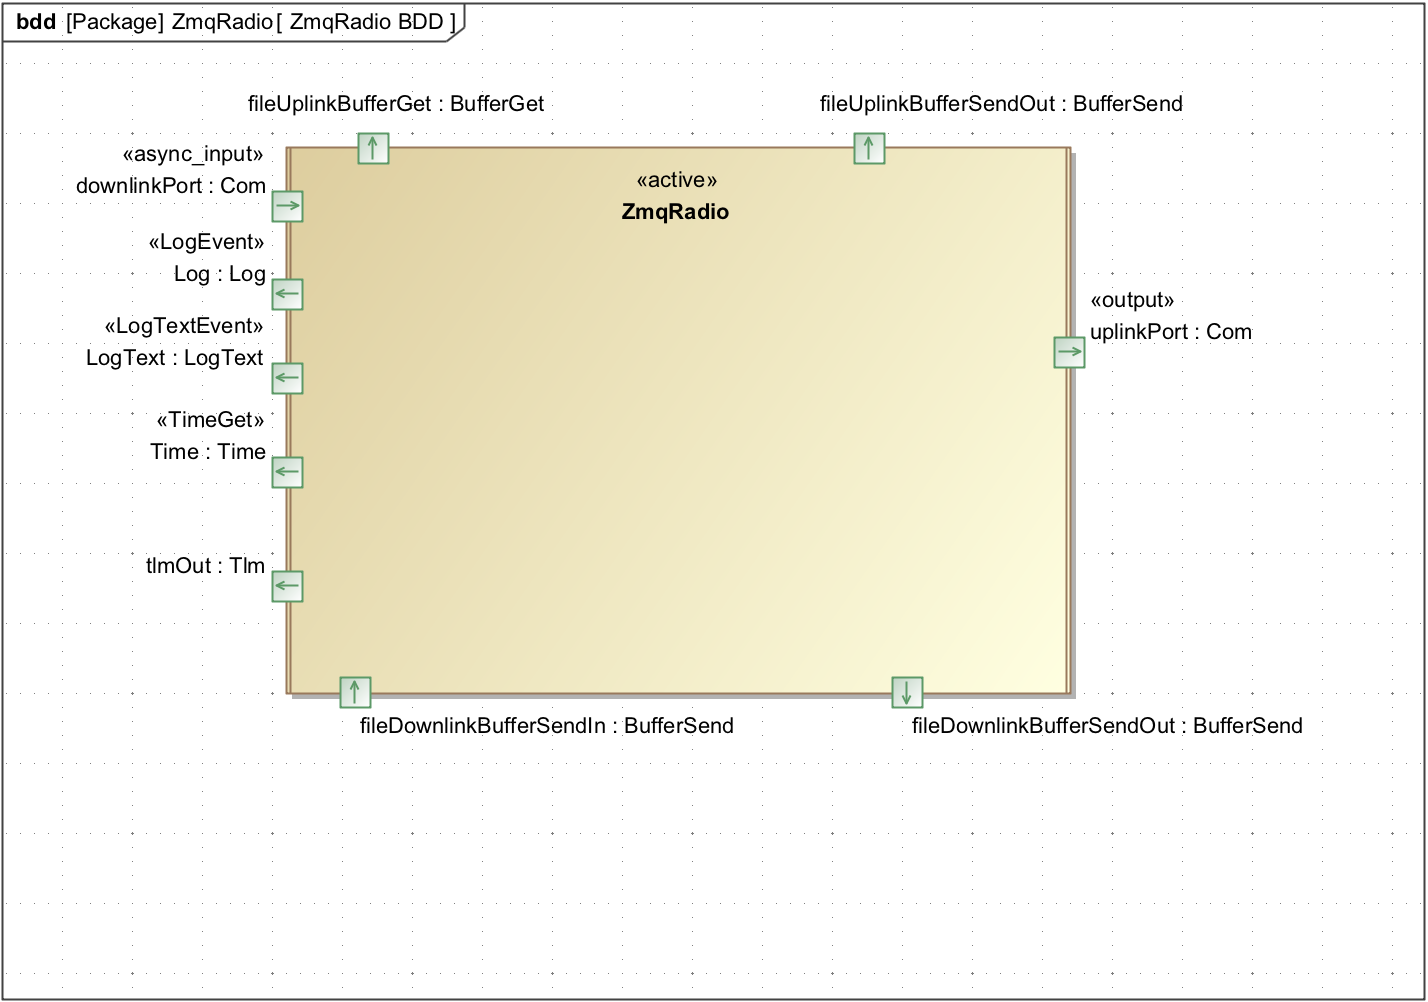
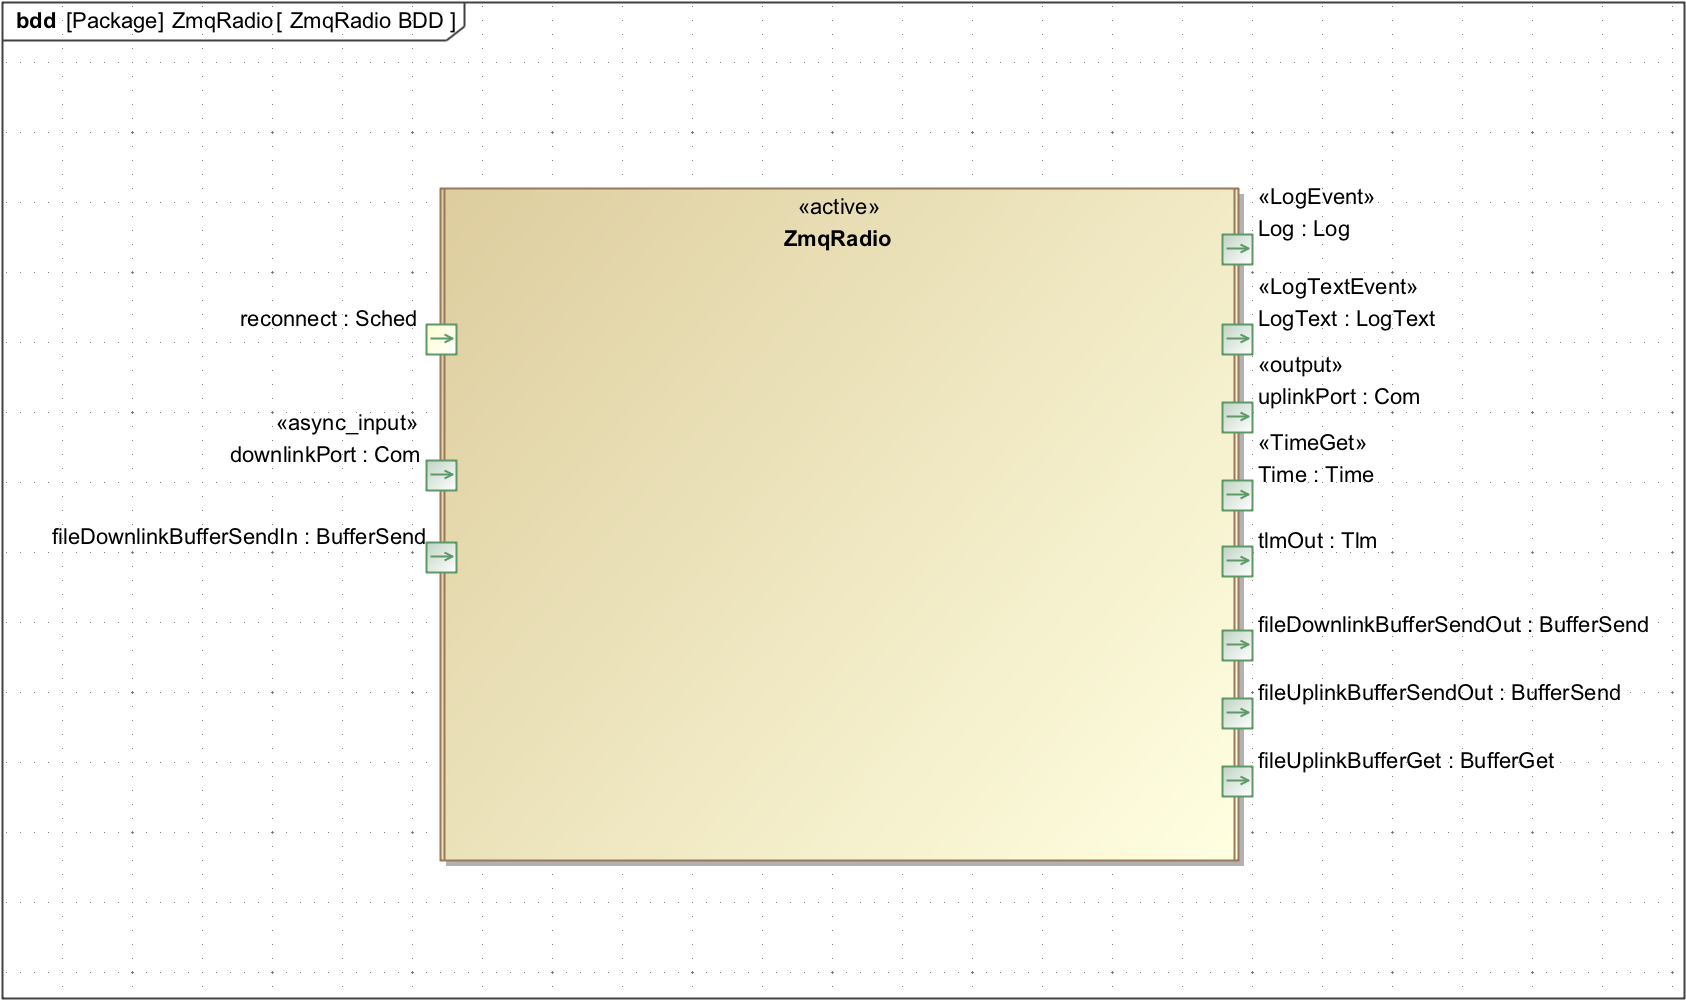
Added docs

Changed region(s): [[0.0, 0.0, 1.0, 1.0]]

diff --git a/zmq-ref/scripts/run_ref.py b/zmq-ref/scripts/run_ref.py
@@ -1,0 +1,112 @@
+#!/usr/bin/python
+
+import utils.PortFinder
+import sys
+import subprocess
+import os
+import time
+import signal
+from optparse import OptionParser
+
+def main(argv=None):
+    
+    start_port = 50000
+    end_port = 50100
+    used_port = None
+    addr = "127.0.0.1" 
+    nobin = False
+    
+    #if len(sys.argv) > 1:
+    #    if sys.argv[1] == "-nobin":
+    #        print("Not starting binary.")
+    #        nobin = True
+    
+    python_bin = os.environ["PYTHON_BASE"] + "/bin/python"
+    
+    for port in range(start_port,end_port):
+        if not utils.PortFinder.IsPortUsed(port):
+            used_port = port
+            print("Using port %d"%used_port)
+            break;
+        
+    if (used_port == None):
+        print("Could not find port in range %d to %d",start_port,end_port)
+        return -1
+    
+    build_root = os.environ["BUILD_ROOT"]
+    
+    parser = OptionParser()
+    parser.add_option("-p", "--port", dest="port", action="store", type="int", help="Set the threaded TCP socket server port [default: %default]", default=used_port)
+    parser.add_option("-a", "--addr", dest="addr", action="store", type="string", help="set the threaded TCP socket server address [default: %default]", default=addr)
+    parser.add_option("-n", "--nobin", dest="nobin", action="store_true", help="Disables the binary app from starting [default: %default]", default=False)
+    parser.add_option("-t", "--twin", dest="twin", action="store_true", help="Runs ZmqServer in window, otherwise backgrounds [default: %default]", default=False)
+
+    (opts, args) = parser.parse_args(argv)
+    used_port = opts.port
+    nobin = opts.nobin
+    addr = opts.addr
+    twin = opts.twin
+#     print 'nobin =', nobin
+#     print 'port = ', used_port
+#     print 'addr = ', addr 
+
+    # run ZmqServer 
+    if twin:
+        TTS_args = [python_bin,"%s/Gse/bin/pexpect_runner.py"%build_root,"ZmqServer.log","ZmqServer",python_bin,"%s/Gse/bin/run_server.py"%build_root,"%d"%used_port]
+        TTS = subprocess.Popen(TTS_args)
+    else:
+        tts_log = open("ZmqServer.log",'w')
+        TTS_args = [python_bin, "-u", "%s/Gse/bin/run_server.py"%build_root,"%d"%used_port]
+        TTS = subprocess.Popen(TTS_args,stdout=tts_log,stderr=subprocess.STDOUT)
+    
+    # wait for TCP Server to start
+    time.sleep(5)
+    
+    # run Gse GUI
+    GUI_args = [python_bin,"%s/Gse/bin/pexpect_runner.py"%build_root,"gui_1.log","GUI 1",python_bin,"%s/Gse/bin/gse.py"%build_root,"--port","%d"%used_port,"--dictionary","%s/Gse/generated/Ref"%build_root,"--connect","--addr",addr,"-L","%s/Ref/logs"%build_root,\
+                "-N gui_1"]
+    #print ("GUI: %s"%" ".join(GUI_args))
+    GUI1 = subprocess.Popen(GUI_args)
+
+    # run Ref app
+    
+    op_sys = os.uname()[0]
+    
+    ref_bin = "%s/Ref/%s/Ref"%(build_root,os.environ["OUTPUT_DIR"])
+    
+    if not nobin:
+        REF_args = [python_bin,"%s/Gse/bin/pexpect_runner.py"%build_root,"Ref.log","Ref 1 Application",ref_bin,"-p","%d"%used_port,"-a",addr,"-n flight_1"]
+        REF1 = subprocess.Popen(REF_args)
+    
+    GUI1.wait()
+    GUI2.wait()
+
+    if not nobin:
+        try:
+            REF1.send_signal(signal.SIGTERM)
+
+        except:
+            pass
+            
+        try:
+            REF1.wait()
+        except:
+            pass
+            
+    try:
+        TTS.send_signal(signal.SIGINT)
+    except:
+        pass
+        
+    try:
+        TTS.wait()
+    except:
+        pass
+            
+    # Run Gse interface
+    
+            
+         
+
+if __name__ == "__main__":
+    sys.exit(main())

diff --git a/zmq-radio/docs/sdd.md b/zmq-radio/docs/sdd.md
@@ -1,4 +1,3 @@
-
 # ZmqRadio Component
 
 ## 1. Introduction
@@ -6,23 +5,26 @@
 The ZmqRadio is an active component that provides an interface to the 
 ZeroMQ based GSE server. 
 
+The FPrime ZeroMQ GSE server uses ZeroMQ as a socket middleware library. An interface is needed to allow an embedded system to communicate with the server. This component provides that.  
+
 The component takes input from a `Fw::Com` and `Fw:BufferSend` port.
 These inputs are serviced by the `Zmq::ZmqRadio::downlinkPort_handler` and 
 `Zmq::ZmqRadio::filedownlinkbuffersendin_handler`, respectively. 
 
-An `Os::Task` listener thread, `Zmq::ZmqRadio::subscriptionTask`, runs in parallel with the ZmqRadio's main thread. This listener thread blocks and listens for packets coming from the ground system. Any ZMQ error, such as a
-network disconnect, breaks the block allowing the task to switch to the
-`ZMQ_RADIO_DISCONNECTED` state.
+An `Os::Task` listener thread, `Zmq::ZmqRadio::subscriptionTask`, runs in parallel with the ZmqRadio's main thread. This listener thread blocks and listens for packets coming from the ground system.
 
-In order to support persistent reconnection attempts and component stability,
-the ZmqRadio maintains two internal states:
+The component uses state to determine it's behavior. There are two states the component can be in:
 
-- `ZMQ_RADIO_DISCONNECTED`
 - `ZMQ_RADIO_CONNECTED`
+- `ZMQ_RADIO_DISCONNECTED`
 
 The ZmqRadio's state controls each input handlers to keep message queues 
 from backing up. The internal state also facilitates persistent reconnection
 attempts. 
+
+A ZMQ error, such as a network disconnect, may change 
+`ZMQ_RADIO_DISCONNECTED` state. While in a disconnected state the component tries to reconnect with the server. The state is restored to `ZMQ_RADIO_CONNECTED` if connection is successful.
+
 
 
 ## 2. Requirements
@@ -46,8 +48,8 @@ ZMQ Option | Description |  Value
 
 `Zmq::ZmqRadio` Option | Description |  Value 
 ---------- | ----------- | --------------
-`ZMQ_RADIO_NUM_RECV_TRIES` | Number of times the component retries receiving an uplinked packet. | 5
-`ZMQ_RADIO_SNDHWM` | Maximum number of outbound packets queued until transition to `ZMQ_RADIO_DISCONNECTED` | 5
+`ZMQ_RADIO_NUM_RECV_TRIES` | Number of times the component retries receiving an uplinked packet. | 5 s
+`ZMQ_RADIO_SNDHWM` | Maximum number of outbound packets queued until transition to `ZMQ_RADIO_DISCONNECTED` | 5 msgs
 
 ## 3. Design
 
@@ -60,6 +62,10 @@ ZMQ Option | Description |  Value
 #### 3.1.2 State Diagram
 
 ![ZmqRadioStateDiagram](img/ZmqRadioState.png "ZmqRadioState") 
+
+#### 3.1.3 Sequence Diagram
+![ZmqRadioStateDiagram](img/ZmqRadioStateSequence.png "ZmqRadioState") 
+
 
 ## 4. Functional Description
 
@@ -84,24 +90,17 @@ If `ZMQ_RADIO_DISCONNECTED`:  Set state to `ZMQ_RADIO_CONNECTED`
 If `ZMQ_RADIO_CONNECTED`:     Set state to `ZMQ_RADIO_DISCONNECTED` and release ZMQ resources. <br> 
 If `ZMQ_RADIO_DISCONNECTED`:  No action. 
 
-### 4.6 reconnect_handler
+### 4.6 sched_handler
 Is connected to a 1Hz rategroup for persistent reconnection attempts.
+
 If `ZMQ_RADIO_CONNECTED`:     No action. <br> 
 If `ZMQ_RADIO_DISCONNECTED`:  Attempts connection and registration with the server.
 
 
-## Telemetry Channel List
-- ZR_NumDisconnects
-- ZR_NumConnects
-- ZR_NumDisconnectRetries
-- ZR_PktsSent
-- ZR_PktsRecv
+Dictionaries: [HTML](ActiveLogger.html) [MD](ZmqRadio.md)
 
-## Event List
-- ZR_ContextError
-- ZR_SocketError
-- ZR_BindError
-- ZR_Disconnection
-- ZR_Connection
-- ZR_SendError
-- ZR_ReceiveError
+
+## Future Work
+- Change receive and sending to use a Serializable instead of incrementing a buffer pointer
+- Remove use of ntohl for network correction
+- Remove strings from EVRs
